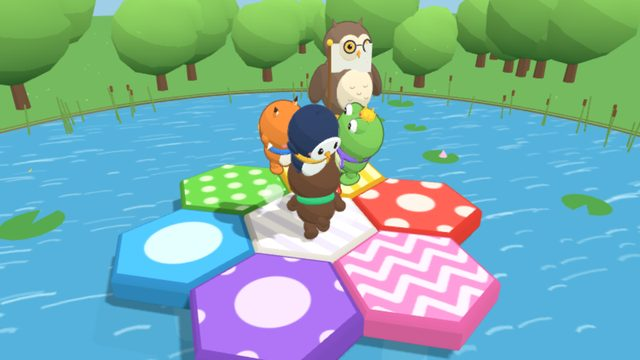
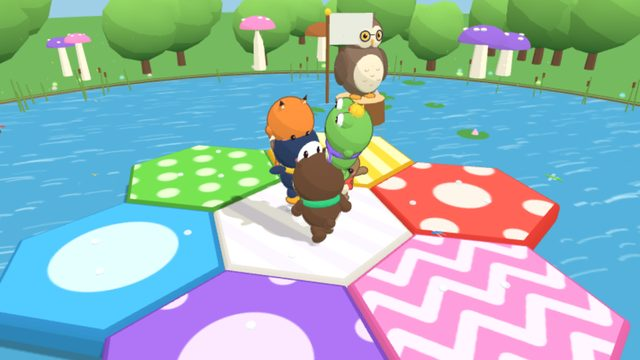
いろいろキノコ: 会場を 作り込む(岸の 森の キノコ・光る 小さな キノコ・水面の きらきら・トンボ・はねる 魚・丸太・キノコの ひだと えりと しずく)
Claude-Session: https://claude.ai/code/session_01Cisc6eBGskeR7WZHkdup4y

diff --git a/src/games/kinoko/stage.js b/src/games/kinoko/stage.js
@@ -2,7 +2,9 @@
 //
 // 森に かこまれた 湖。まん中に 7色の 六角の キノコが 花の 形に うかぶ(上の 面に それぞれの もよう)。
 // キノコの 下は 白い 柄が 水の 中へ。右奥の 切り株の 島に ホーホー先生(旗を あげる)。
-// 岸には あし と 木、水面には 蓮の葉。
+// 岸には あし と 木、大きな 森の キノコ、ほんのり 光る 小さな キノコ。水面には 蓮の葉と 倒れた 丸太。
+// 水面は 光の つぶが きらきら(update)。
+// キノコの 柄には ひらひらの えり、かさの 下には ひだ、かさの 上には しずく。
 //
 // 座標: キノコの 上の 面が y = 0。水面は y = WATER_Y。カメラは +z(手前)から。
 
@@ -115,6 +117,11 @@ export function buildMushrooms(scene) {
   skirtGeo.rotateY(Math.PI / 6);
   const stemGeo = new THREE.CylinderGeometry(0.42, 0.55, 3.2, 10);
   const stemMat = toonMaterial(0xf6ecd8);
+  const gillGeo = new THREE.CylinderGeometry(r * 0.85, 0.5, 0.18, 18, 1, true);
+  const gillMat = new THREE.MeshToonMaterial({ color: 0xe8d8bc, gradientMap: toonGradient, side: THREE.DoubleSide });
+  const frillGeo = new THREE.CylinderGeometry(0.5, 0.75, 0.22, 12, 1, true).translate(0, 0, 0);
+  const dewGeo = new THREE.SphereGeometry(0.09, 8, 6);
+  const dewMat = new THREE.MeshToonMaterial({ color: 0xe8f8ff, gradientMap: toonGradient, transparent: true, opacity: 0.85 });
   return HEXES.map((h) => {
     const g = new THREE.Group();
     const top = new THREE.MeshToonMaterial({ map: topTexture(h.color), gradientMap: toonGradient });
@@ -126,7 +133,20 @@ export function buildMushrooms(scene) {
     skirt.position.y = -0.44;
     const stem = new THREE.Mesh(stemGeo, stemMat);
     stem.position.y = -2.0;
-    g.add(cap, skirt, stem);
+    // かさの 下の ひだ(放射の すじ)と、柄の ひらひらの えり
+    const gill = new THREE.Mesh(gillGeo, gillMat);
+    gill.position.y = -0.62;
+    const frill = new THREE.Mesh(frillGeo, stemMat);
+    frill.position.y = -1.15;
+    // かさの 上の しずく(光る)
+    for (let k = 0; k < 3; k++) {
+      const a = k * 2.1 + h.id, rr = r * (0.3 + (k % 2) * 0.35);
+      const d = new THREE.Mesh(dewGeo, dewMat);
+      d.position.set(Math.cos(a) * rr, 0.04, Math.sin(a) * rr);
+      d.scale.set(1, 0.55, 1);
+      g.add(d);
+    }
+    g.add(cap, skirt, stem, gill, frill);
     g.position.set(h.x, 0, h.z);
     g.userData.hex = h;
     g.userData.top = top;
@@ -200,6 +220,36 @@ export function buildStage(scene) {
       g.add(f);
     }
   }
+  // 岸の 大きな 森の キノコ(赤い かさに 白い 水玉 / 茶色 / むらさき)
+  const capCols = [0xe8402f, 0xb06a3a, 0x9a6ad8, 0xff8fc8];
+  const dotMat = toonMaterial(0xfff6e0), shroomStem = toonMaterial(0xf6ecd8);
+  for (let i = 0; i < 16; i++) {
+    const a = rand() * Math.PI * 2;
+    if (Math.sin(a) > 0.3) continue;
+    const d = SHORE + 0.8 + rand() * 4, hgt = 1.2 + rand() * 1.8, cr = 0.7 + rand() * 0.8;
+    const x = Math.cos(a) * d, z = Math.sin(a) * d;
+    const st = new THREE.Mesh(new THREE.CylinderGeometry(cr * 0.25, cr * 0.35, hgt, 8), shroomStem);
+    st.position.set(x, WATER_Y + 0.2 + hgt / 2, z);
+    const cp = new THREE.Mesh(new THREE.SphereGeometry(cr, 14, 8, 0, Math.PI * 2, 0, Math.PI / 2), toonMaterial(capCols[i % capCols.length]));
+    cp.scale.y = 0.65;
+    cp.position.set(x, WATER_Y + 0.2 + hgt, z);
+    g.add(st, cp);
+    if (i % 4 !== 1) for (let k = 0; k < 5; k++) {
+      const da = (k / 5) * Math.PI * 2 + rand(), el = 0.5 + rand() * 0.6;
+      const dt = new THREE.Mesh(new THREE.SphereGeometry(cr * 0.14, 6, 4), dotMat);
+      dt.position.set(x + Math.cos(da) * Math.cos(el) * cr, cp.position.y + Math.sin(el) * cr * 0.65, z + Math.sin(da) * Math.cos(el) * cr);
+      dt.scale.y = 0.5;
+      g.add(dt);
+    }
+  }
+  // 水ぎわの 丸太
+  const log = new THREE.Mesh(new THREE.CylinderGeometry(0.35, 0.4, 5, 10).rotateZ(Math.PI / 2), toonMaterial(0x7a5032));
+  log.position.set(-12, WATER_Y + 0.1, -11);
+  log.rotation.y = 0.6;
+  const logEnd = new THREE.Mesh(new THREE.CircleGeometry(0.36, 10).rotateY(Math.PI / 2), toonMaterial(0xe8c48c));
+  logEnd.position.set(-12 + Math.cos(0.6) * 2.51, WATER_Y + 0.1, -11 - Math.sin(0.6) * 2.51);
+  logEnd.rotation.y = 0.6;
+  g.add(log, logEnd);
   // 先生の 切り株の 島
   const stump = new THREE.Mesh(new THREE.CylinderGeometry(1.1, 1.3, 2.4, 14), toonMaterial(0x8a5a32));
   stump.position.set(OWL_AT.x, OWL_AT.y - 1.2, OWL_AT.z);
@@ -208,7 +258,95 @@ export function buildStage(scene) {
   g.add(stump, ring);
   mergeStatic(g);
   scene.add(g);
-  return { group: g, water };
+
+  // ほんのり 光る 小さな キノコ(岸の 草むら)
+  const glowTex = (() => {
+    const c = document.createElement('canvas');
+    c.width = c.height = 64;
+    const x = c.getContext('2d');
+    const gr = x.createRadialGradient(32, 32, 0, 32, 32, 32);
+    gr.addColorStop(0, 'rgba(255,255,255,1)');
+    gr.addColorStop(0.3, 'rgba(255,255,255,.5)');
+    gr.addColorStop(1, 'rgba(255,255,255,0)');
+    x.fillStyle = gr;
+    x.fillRect(0, 0, 64, 64);
+    return new THREE.CanvasTexture(c);
+  })();
+  const glowPos = [], glowCol = [];
+  const gc = new THREE.Color();
+  const tiny = new THREE.Group();
+  const tinyCap = new THREE.SphereGeometry(0.12, 8, 5, 0, Math.PI * 2, 0, Math.PI / 2);
+  const tinyCols = [0x8fe8ff, 0xffd0f0, 0xd8ff9a];
+  for (let i = 0; i < 40; i++) {
+    const a = rand() * Math.PI * 2;
+    if (Math.sin(a) > 0.4 && Math.abs(Math.cos(a)) < 0.5) continue;
+    const d = SHORE + 0.3 + rand() * 1.5;
+    const x = Math.cos(a) * d, z = Math.sin(a) * d, y = WATER_Y + 0.28;
+    const m = new THREE.Mesh(tinyCap, new THREE.MeshBasicMaterial({ color: tinyCols[i % 3] }));
+    m.position.set(x, y + 0.08, z);
+    tiny.add(m);
+    glowPos.push(x, y + 0.12, z);
+    gc.setHex(tinyCols[i % 3]);
+    glowCol.push(gc.r, gc.g, gc.b);
+  }
+  const glowGeo = new THREE.BufferGeometry();
+  glowGeo.setAttribute('position', new THREE.Float32BufferAttribute(glowPos, 3));
+  glowGeo.setAttribute('color', new THREE.Float32BufferAttribute(glowCol, 3));
+  const glows = new THREE.Points(glowGeo, new THREE.PointsMaterial({ size: 0.9, map: glowTex, vertexColors: true, transparent: true, depthWrite: false, blending: THREE.AdditiveBlending, opacity: 0.55 }));
+  tiny.add(glows);
+  scene.add(tiny);
+  // 水面の きらきら(光の つぶが ついたり 消えたり)
+  const N = 90;
+  const spPos = new Float32Array(N * 3), sp = [];
+  for (let i = 0; i < N; i++) {
+    const a = rand() * Math.PI * 2, d = 4 + rand() * 14;
+    sp.push({ x: Math.cos(a) * d, z: Math.sin(a) * d, ph: rand() * 6, sp: 1 + rand() * 2 });
+    spPos.set([sp[i].x, WATER_Y + 0.03, sp[i].z], i * 3);
+  }
+  const spGeo = new THREE.BufferGeometry();
+  spGeo.setAttribute('position', new THREE.BufferAttribute(spPos, 3));
+  const sparkles = new THREE.Points(spGeo, new THREE.PointsMaterial({ size: 0.35, map: glowTex, color: 0xffffff, transparent: true, depthWrite: false, blending: THREE.AdditiveBlending }));
+  scene.add(sparkles);
+  // トンボ(湖の 上を すいすい)
+  const flies = [];
+  const wingGeo = new THREE.PlaneGeometry(0.34, 0.07);
+  for (let i = 0; i < 3; i++) {
+    const f = new THREE.Group();
+    const body = new THREE.Mesh(new THREE.CylinderGeometry(0.025, 0.02, 0.36, 5).rotateX(Math.PI / 2), toonMaterial([0x3a8ad8, 0xe84a3a, 0x6ac83a][i]));
+    f.add(body);
+    for (const z of [-0.04, 0.05]) {
+      const w = new THREE.Mesh(wingGeo, new THREE.MeshBasicMaterial({ color: 0xffffff, transparent: true, opacity: 0.55, side: THREE.DoubleSide }));
+      w.rotation.x = -Math.PI / 2;
+      w.position.z = z;
+      f.add(w);
+    }
+    f.userData = { ph: i * 2.1, r: 6 + i * 2.5, h: 1.2 + i * 0.4 };
+    scene.add(f);
+    flies.push(f);
+  }
+  return {
+    group: g,
+    water,
+    update(t) {
+      // きらきら: ときどき ぱっと 光る
+      sparkles.material.opacity = 0.6 + Math.sin(t * 3) * 0.2;
+      for (let i = 0; i < N; i++) {
+        const k = Math.sin(t * sp[i].sp + sp[i].ph);
+        spPos[i * 3 + 1] = k > 0.7 ? WATER_Y + 0.03 : WATER_Y - 5; // 光って いない ときは 水の 下へ
+      }
+      spGeo.attributes.position.needsUpdate = true;
+      glows.material.opacity = 0.45 + Math.sin(t * 1.3) * 0.15;
+      for (const f of flies) {
+        const u = f.userData, a = t * 0.35 + u.ph;
+        const x = Math.cos(a) * u.r + Math.sin(t * 1.7 + u.ph) * 1.2, z = Math.sin(a * 1.3) * u.r * 0.7 - 2;
+        const y = WATER_Y + u.h + Math.sin(t * 2.3 + u.ph) * 0.3;
+        f.lookAt(x, y, z);
+        f.position.set(x, y, z);
+        f.children[1].rotation.y = Math.sin(t * 40) * 0.5;
+        f.children[2].rotation.y = -Math.sin(t * 40) * 0.5;
+      }
+    },
+  };
 }
 
 // 先生の 旗: ポールと 旗(色は あとで かえる)

diff --git a/src/games/kinoko/game.js b/src/games/kinoko/game.js
@@ -159,6 +159,19 @@ export async function createKinoko({ renderer, settings, getAudio, onExit }) {
       fx.push({ obj: m, t: 0, life: 0.5, vel: new THREE.Vector3(Math.cos(a) * 3, 2 + Math.random() * 2, Math.sin(a) * 3), kind: 'spark' });
     }
   }
+  // 魚: 遠くの 水面から ぴょんと はねて、ぽちゃん
+  const fishGeo = new THREE.SphereGeometry(0.18, 8, 6).scale(1, 0.6, 2.2);
+  const fishMat = new THREE.MeshToonMaterial({ color: 0xff9a3a });
+  function fish() {
+    const a = Math.random() * Math.PI * 2, d = 8 + Math.random() * 8;
+    const x = Math.cos(a) * d, z = Math.sin(a) * d - 2;
+    const m = new THREE.Mesh(fishGeo, fishMat.clone());
+    m.position.set(x, WATER_Y, z);
+    scene.add(m);
+    ripple(x, z);
+    const dir = Math.random() * Math.PI * 2;
+    fx.push({ obj: m, t: 0, life: 0.9, vel: new THREE.Vector3(Math.cos(dir) * 1.6, 4.4, Math.sin(dir) * 1.6), kind: 'fish', dir });
+  }
   const confettiGeo = new THREE.PlaneGeometry(0.12, 0.07);
   function confetti(x, z) {
     const colors = Object.values(PALETTE).map((p) => p.top);
@@ -190,6 +203,10 @@ export async function createKinoko({ renderer, settings, getAudio, onExit }) {
       } else if (f.kind === 'ring') {
         f.obj.scale.setScalar(f.size * (0.4 + k * 1.8));
         f.obj.material.opacity = 0.8 * (1 - k);
+      } else if (f.kind === 'fish') {
+        f.vel.y -= 10 * dt;
+        f.obj.rotation.set(-Math.atan2(f.vel.y, 1.6), Math.PI / 2 - f.dir, 0);
+        if (!f.plop && f.obj.position.y < WATER_Y) { f.plop = true; ripple(f.obj.position.x, f.obj.position.z); }
       } else if (f.kind === 'confetti') {
         f.obj.rotation.x += f.spin.x * dt;
         f.obj.rotation.y += f.spin.y * dt;
@@ -603,6 +620,10 @@ export async function createKinoko({ renderer, settings, getAudio, onExit }) {
       if (game.tick <= 0) { game.tick = 0.2; sfx.tick(); }
     }
     stage.water.material.map.offset.x += dt * 0.01;
+    stage.update(time);
+    // ときどき 魚が ぴょんと はねる
+    game.fishT = (game.fishT ?? 3) - dt;
+    if (game.fishT <= 0) { game.fishT = 4 + Math.random() * 5; fish(); }
   }
 
   let freeCamera = false;

diff --git a/sw.js b/sw.js
@@ -10,7 +10,7 @@
 // 版はファイルの中身から作るので、1つでも変われば sw.js が変わり、ブラウザが入れなおす。
 
 // <precache>
-const VERSION = '2eb8ca2e5b9e';
+const VERSION = '4c445aaa34fc';
 const PRECACHE = [
   "./",
   "./assets/thumbs/bumper.jpg",
